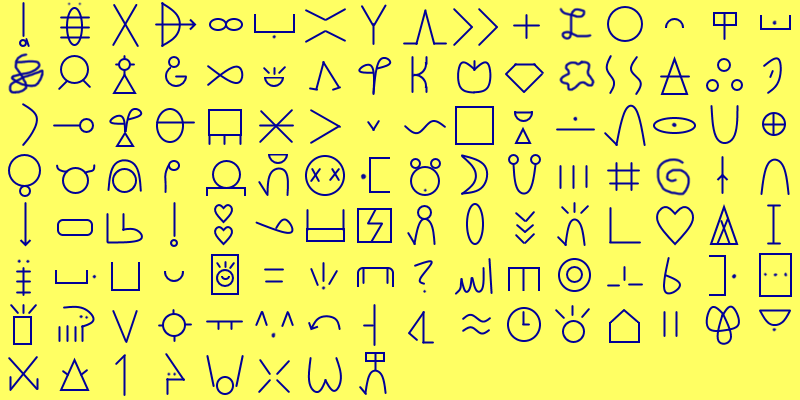
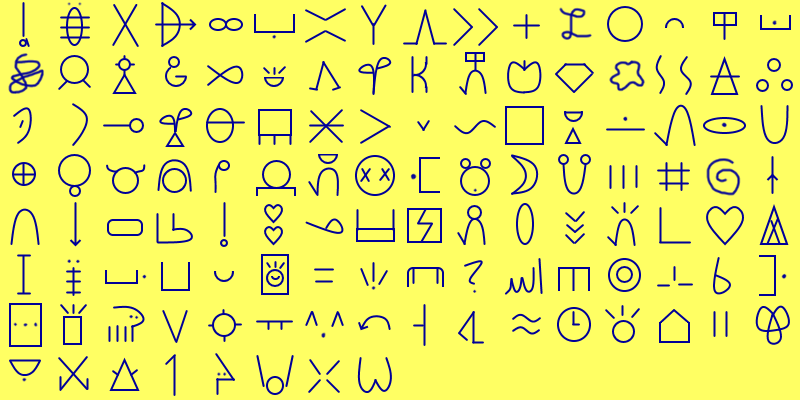
internal logic cleanup

Changed region(s): [[0.0, 0.12, 1.0, 0.87], [0.0, 0.87, 0.5, 0.99]]

diff --git a/Assets/InsaIloScript.cs b/Assets/InsaIloScript.cs
@@ -6,8 +6,9 @@ using System.Text.RegularExpressions;
 using UnityEngine;
 using KModkit;
 
-public class InsaIloScript : MonoBehaviour { //note to self if i get one more freaking complaint regarding ambiguity: a) make a better system as that switch is annoying and b) ask emik or someone fluent to remake the list as it's kinda mid and wrong and sdahjkldsjakl,.;
+public class InsaIloScript : MonoBehaviour {
 
+    public KMBombModule Module;
     public KMBombInfo Bomb;
     public KMAudio Audio;
 
@@ -17,14 +18,92 @@ public class InsaIloScript : MonoBehaviour { //note to self if i get one more fr
     public TextMesh[] Texts;
 
     private int chosenIx, anIx, answer;
-    private string[] words = { "who", "where", "when", "three", "four", "six", "seven", "ten", "worm", "forest", "root", "flower", "bone", "egg", "horn", "tail", "feather", "tooth", "tongue", "knee", "wing", "belly", "neck", "rain", "river", "sea", "ice", "smoke", "ash", "night", "day", "year", "old", "smooth", "dry", "near", "module", "bomb", "pink", "maroon", "orange", "green", "purple", "alcohol", "blind", "deaf", "love", "gray", "rich", "poor", "glitch", "saliva", "mother", "father", "soda", "second", "eternity", "baby", "basement", "twin", "dinosaur", "banana", "dumb", "button", "welcome", "sorry", "please", "friend", "enemy", "soldier", "vehicle", "city", "hunter", "speaker", "leader", "sentence", "calculator", "movie", "others", "nothing", "first", "fifth" };
-    private const float row = 0.125f;
-    private const float col = 0.0625f;
-    private float Lrow, Lcol, Rrow, Rcol;
-    private string chosenWord, forLogging;
+    private string[] tokipona = { "a", "akesi", "ala", "alasa", "ale", "anpa", "ante", "anu", "awen", "e", "en", "esun", "ijo", "ike", "ilo", "insa", "jaki", "jan", "jelo", "jo", "kala", "kalama", "kama", "kasi", "ken", "kepeken", "kili", "kiwen", "ko", "kon", "kule", "kulupu", "kute", "la", "lape", "laso", "lawa", "len", "lete", "li", "lili", "linja", "lipu", "loje", "lon", "luka", "lukin", "lupa", "ma", "mama", "mani", "meli", "mi", "mije", "moku", "moli", "monsi", "mu", "mun", "musi", "mute", "nanpa", "nasa", "nasin", "nena", "ni", "nimi", "noka", "o", "olin", "ona", "open", "pakala", "pali", "palisa", "pan", "pana", "pi", "pilin", "pimeja", "pini", "pipi", "poka", "poki", "pona", "pu", "sama", "seli", "selo", "seme", "sewi", "sijelo", "sike", "sin", "sina", "sinpin", "sitelen", "sona", "soweli", "suli", "suno", "supa", "suwi", "tan", "taso", "tawa", "telo", "tenpo", "toki", "tomo", "tu", "unpa", "uta", "utala", "walo", "wan", "waso", "wawa", "weka", "wile" };
+    private string[] trans = { 
+        "jan seme who",
+        "ma seme where",
+        "tenpo seme when",
+        "tu wan three",
+        "tu tu four",
+        "luka wan six",
+        "luka tu seven",
+        "luka luka ten",
+        "pipi linja worm",
+        "ma kasi forest",
+        "noka kasi root",
+        "kasi kule flower",
+        "kiwen sijelo bone",
+        "kiwen waso egg",
+        "kiwen lawa horn",
+        "linja monsi tail",
+        "lipu waso feather",
+        "kiwen uta tooth",
+        "nena uta tongue",
+        "nena noka knee",
+        "luka waso wing",
+        "sinpin sijelo belly",
+        "noka lawa neck",
+        "telo sewi rain",
+        "telo tawa river",
+        "telo suli sea",
+        "kiwen telo ice",
+        "kon seli smoke",
+        "ko seli ash",
+        "tenpo pimeja night",
+        "tenpo suno day",
+        "nena ala smooth",
+        "telo ala dry",
+        "lon poka near",
+        "insa ilo module",
+        "moli ilo bomb",
+        "loje walo pink",
+        "loje pimeja maroon",
+        "loje jelo orange",
+        "jelo laso green",
+        "loje laso purple",
+        "telo nasa alcohol",
+        "lukin ala blind",
+        "kute ala deaf",
+        "pilin jan love",
+        "walo pimeja gray",
+        "mani ale rich",
+        "mani ala poor",
+        "pipi ilo glitch",
+        "telo uta saliva",
+        "meli mama mother",
+        "mije mama father",
+        "telo pimeja soda",
+        "tenpo lili second",
+        "tenpo suli year",
+        "tenpo ale eternity",
+        "jan lili baby",
+        "tomo noka basement",
+        "jan tu twin",
+        "akesi suli dinosaur",
+        "kili jelo banana",
+        "lawa ike dumb",
+        "ilo nena button",
+        "kama pona welcome",
+        "mi pakala sorry",
+        "mi wile please",
+        "jan pona friend",
+        "jan ike enemy",
+        "jan utala soldier",
+        "tomo tawa vehicle",
+        "ma tomo city",
+        "jan alasa hunter",
+        "jan kalama speaker",
+        "jan lawa leader",
+        "nimi mute sentence",
+        "nanpa ilo calculator",
+        "sitelen tawa movie",
+        "sina ala others",
+        "ale ala nothing",
+        "wan nanpa first",
+        "luka nanpa fifth"
+    };
+    private string chosenWord;
     private List<string> onButtons = new List<string> {};
-    private bool chegg = false;
-    private int x = -1;
 
     //Logging
     static int moduleIdCounter = 1;
@@ -41,28 +120,28 @@ public class InsaIloScript : MonoBehaviour { //note to self if i get one more fr
 
     // Use this for initialization
     void Start () {
-        chosenIx = UnityEngine.Random.Range(0, words.Count());
-        chosenWord = words[chosenIx];
+        chosenIx = UnityEngine.Random.Range(0, trans.Count());
+        chosenWord = trans[chosenIx].Split(' ')[2];
         
-        SetSymbols(chosenIx);
+        Screens[0].GetComponent<MeshRenderer>().material.mainTextureOffset = new Vector2(0.0625f * (Array.IndexOf(tokipona, trans[chosenIx].Split(' ')[0]) % 16), 0.125f * (7 - (Array.IndexOf(tokipona, trans[chosenIx].Split(' ')[0]) / 16)));
+        Screens[1].GetComponent<MeshRenderer>().material.mainTextureOffset = new Vector2(0.0625f * (Array.IndexOf(tokipona, trans[chosenIx].Split(' ')[1]) % 16), 0.125f * (7 - (Array.IndexOf(tokipona, trans[chosenIx].Split(' ')[1]) / 16)));
         
-        Screens[0].GetComponent<MeshRenderer>().material.mainTextureOffset = new Vector2(Lcol, Lrow);
-        Screens[1].GetComponent<MeshRenderer>().material.mainTextureOffset = new Vector2(Rcol, Rrow);
         onButtons.Add(chosenWord);
+
+        bool flag = false;
         while (onButtons.Count() <= 5) {
-            chegg = false;
-            anIx = UnityEngine.Random.Range(0, words.Count());
+            flag = false;
+            anIx = UnityEngine.Random.Range(0, trans.Count());
+            string word = trans[anIx].Split(' ')[2];
             for (int w = 0; w < onButtons.Count(); w++) {
-                if (words[anIx] == onButtons[w]) {
-                    chegg = true;
+                if (word == onButtons[w]) {
+                    flag = true;
                 }
             }
-            if (!chegg) {
-                onButtons.Add(words[anIx]);
-            }
+            if (!flag) { onButtons.Add(word); }
         }
         onButtons.Shuffle();
-        for (int m = 0; m < 6; m++) {
+        for (int m = 0; m < 6; m++) { //note: this needs to be changed on a case-by-case basis currently, should change later
             Texts[m].text = onButtons[m];
             switch (onButtons[m]) {
                 case "dinosaur": case "speaker":
@@ -78,113 +157,27 @@ public class InsaIloScript : MonoBehaviour { //note to self if i get one more fr
             }
         }
         Debug.LogFormat("[Insa Ilo #{0}] Words: {1}, {2}, {3}, {4}, {5}, {6}", moduleId, onButtons[0], onButtons[1], onButtons[2], onButtons[3], onButtons[4], onButtons[5]);
-        Debug.LogFormat("[Insa Ilo #{0}] On displays: {1}", moduleId, forLogging);
+        Debug.LogFormat("[Insa Ilo #{0}] On displays: {1} {2}", moduleId, trans[chosenIx].Split(' ')[0], trans[chosenIx].Split(' ')[1]);
         Debug.LogFormat("[Insa Ilo #{0}] Correct word: {1}", moduleId, chosenWord);
     }
 
     void buttonPress(KMSelectable button) {
         button.AddInteractionPunch();
-        GetComponent<KMAudio>().PlayGameSoundAtTransform(KMSoundOverride.SoundEffect.ButtonPress, transform);
+        Audio.PlayGameSoundAtTransform(KMSoundOverride.SoundEffect.ButtonPress, transform);
         for (int b = 0; b < 6; b++) {
             if (!moduleSolved && button == Buttons[b]) {
                 if (onButtons[b] == chosenWord) {
                     Debug.LogFormat("[Insa Ilo #{0}] You pressed {1}, that is correct. Module solved.", moduleId, chosenWord);
-                    GetComponent<KMBombModule>().HandlePass();
-                    Screens[0].GetComponent<MeshRenderer>().material.mainTextureOffset = new Vector2(0.6875f, 0.125f);
-                    Screens[1].GetComponent<MeshRenderer>().material.mainTextureOffset = new Vector2(0.1875f, 0.25f);
+                    Module.HandlePass();
+                    Screens[0].GetComponent<MeshRenderer>().material.mainTextureOffset = new Vector2(0.75f, 0.125f);
+                    Screens[1].GetComponent<MeshRenderer>().material.mainTextureOffset = new Vector2(0.25f, 0.25f);
                     moduleSolved = true;
-                    GetComponent<KMAudio>().PlayGameSoundAtTransform(KMSoundOverride.SoundEffect.CorrectChime, transform);
+                    Audio.PlayGameSoundAtTransform(KMSoundOverride.SoundEffect.CorrectChime, transform);
                 } else {
                     Debug.LogFormat("[Insa Ilo #{0}] You pressed {1}, that is incorrect, you should've pressed {2}. Strike!", moduleId, onButtons[b], chosenWord);
-                    GetComponent<KMBombModule>().HandleStrike();
+                    Module.HandleStrike();
                 }
             }
-        }
-    }
-
-    void SetSymbols (int n) {
-        switch (n) {
-            case 0: Lrow=row*6; Lcol=col*1; Rrow=row*2; Rcol=col*8; forLogging = "jan seme"; break; //who
-            case 1: Lrow=row*5; Lcol=col*15; Rrow=row*2; Rcol=col*8; forLogging = "ma seme"; break; //where
-            case 2: Lrow=row*1; Lcol=col*10; Rrow=row*2; Rcol=col*8; forLogging = "tenpo seme"; break; //when
-            case 3: Lrow=row*1; Lcol=col*13; Rrow=row*0; Rcol=col*2; forLogging = "tu wan"; break; //three
-            case 4: Lrow=row*1; Lcol=col*13; Rrow=row*1; Rcol=col*13; forLogging = "tu tu"; break; //four
-            case 5: Lrow=row*5; Lcol=col*12; Rrow=row*0; Rcol=col*2; forLogging = "luka wan"; break; //six
-            case 6: Lrow=row*5; Lcol=col*12; Rrow=row*1; Rcol=col*13; forLogging = "luka tu"; break; //seven
-            case 7: Lrow=row*5; Lcol=col*12; Rrow=row*5; Rcol=col*12; forLogging = "luka luka"; break; //ten
-            case 8: Lrow=row*2; Lcol=col*0; Rrow=row*5; Rcol=col*8; forLogging = "pipi linja"; break; //worm
-            case 9: Lrow=row*5; Lcol=col*15; Rrow=row*6; Rcol=col*7; forLogging = "ma kasi"; break; //forest
-            case 10: Lrow=row*3; Lcol=col*2; Rrow=row*6; Rcol=col*7; forLogging = "noka kasi"; break; //root
-            case 11: Lrow=row*6; Lcol=col*7; Rrow=row*6; Rcol=col*13; forLogging = "kasi kule"; break; //flower
-            case 12: Lrow=row*6; Lcol=col*10; Rrow=row*2; Rcol=col*10; forLogging = "kiwen sijelo"; break; //bone
-            case 13: Lrow=row*6; Lcol=col*10; Rrow=row*0; Rcol=col*3; forLogging = "kiwen waso"; break; //egg
-            case 14: Lrow=row*6; Lcol=col*10; Rrow=row*5; Rcol=col*3; forLogging = "kiwen lawa"; break; //horn
-            case 15: Lrow=row*5; Lcol=col*8; Rrow=row*4; Rcol=col*7; forLogging = "linja monsi"; break; //tail
-            case 16: Lrow=row*5; Lcol=col*9; Rrow=row*0; Rcol=col*3; forLogging = "lipu waso"; break; //feather
-            case 17: Lrow=row*6; Lcol=col*10; Rrow=row*1; Rcol=col*15; forLogging = "kiwen uta"; break; //tooth
-            case 18: Lrow=row*4; Lcol=col*15; Rrow=row*1; Rcol=col*15; forLogging = "nena uta"; break; //tongue
-            case 19: Lrow=row*4; Lcol=col*15; Rrow=row*3; Rcol=col*2; forLogging = "nena noka"; break; //knee
-            case 20: Lrow=row*5; Lcol=col*12; Rrow=row*0; Rcol=col*3; forLogging = "luka waso"; break; //wing
-            case 21: Lrow=row*2; Lcol=col*14; Rrow=row*2; Rcol=col*10; forLogging = "sinpin sijelo"; break; //belly
-            case 22: Lrow=row*3; Lcol=col*2; Rrow=row*5; Rcol=col*3; forLogging = "noka lawa"; break; //neck
-            case 23: Lrow=row*1; Lcol=col*9; Rrow=row*2; Rcol=col*9; forLogging = "telo sewi"; break; //rain
-            case 24: Lrow=row*1; Lcol=col*9; Rrow=row*1; Rcol=col*8; forLogging = "telo tawa"; break; //river
-            case 25: Lrow=row*1; Lcol=col*9; Rrow=row*1; Rcol=col*2; forLogging = "telo suli"; break; //sea
-            case 26: Lrow=row*6; Lcol=col*10; Rrow=row*1; Rcol=col*9; forLogging = "kiwen telo"; break; //ice
-            case 27: Lrow=row*6; Lcol=col*12; Rrow=row*2; Rcol=col*6; forLogging = "kon seli"; break; //smoke
-            case 28: Lrow=row*6; Lcol=col*11; Rrow=row*2; Rcol=col*6; forLogging = "ko seli"; break; //ash
-            case 29: Lrow=row*1; Lcol=col*10; Rrow=row*3; Rcol=col*14; forLogging = "tenpo pimeja"; break; //night
-            case 30: Lrow=row*1; Lcol=col*10; Rrow=row*1; Rcol=col*3; forLogging = "tenpo suno"; break; //day
-            case 32: Lrow=row*4; Lcol=col*15; Rrow=row*7; Rcol=col*2; forLogging = "nena ala"; break; //smooth
-            case 33: Lrow=row*1; Lcol=col*9; Rrow=row*7; Rcol=col*2; forLogging = "telo ala"; break; //dry
-            case 34: Lrow=row*5; Lcol=col*11; Rrow=row*2; Rcol=col*1; forLogging = "lon poka"; break; //near
-            case 35: Lrow=row*7; Lcol=col*15; Rrow=row*7; Rcol=col*14; forLogging = "insa ilo"; break; //module
-            case 36: Lrow=row*4; Lcol=col*6; Rrow=row*7; Rcol=col*14; forLogging = "moli ilo"; break; //bomb
-            case 37: Lrow=row*5; Lcol=col*10; Rrow=row*0; Rcol=col*1; forLogging = "loje walo"; break; //pink
-            case 38: Lrow=row*5; Lcol=col*10; Rrow=row*3; Rcol=col*14; forLogging = "loje pimeja"; break; //maroon
-            case 39: Lrow=row*5; Lcol=col*10; Rrow=row*6; Rcol=col*2; forLogging = "loje jelo"; break; //orange
-            case 40: Lrow=row*6; Lcol=col*2; Rrow=row*5; Rcol=col*2; forLogging = "jelo laso"; break; //green
-            case 41: Lrow=row*5; Lcol=col*10; Rrow=row*5; Rcol=col*2; forLogging = "loje laso"; break; //purple
-            case 42: Lrow=row*1; Lcol=col*9; Rrow=row*4; Rcol=col*13; forLogging = "telo nasa"; break; //alcohol
-            case 43: Lrow=row*5; Lcol=col*13; Rrow=row*7; Rcol=col*2; forLogging = "lukin ala"; break; //blind
-            case 44: Lrow=row*6; Lcol=col*15; Rrow=row*7; Rcol=col*2; forLogging = "kute ala"; break; //deaf
-            case 45: Lrow=row*3; Lcol=col*13; Rrow=row*6; Rcol=col*1; forLogging = "pilin jan"; break; //love
-            case 46: Lrow=row*0; Lcol=col*1; Rrow=row*3; Rcol=col*14; forLogging = "walo pimeja"; break; //gray
-            case 47: Lrow=row*4; Lcol=col*1; Rrow=row*7; Rcol=col*4; forLogging = "mani ale"; break; //rich
-            case 48: Lrow=row*4; Lcol=col*1; Rrow=row*7; Rcol=col*2; forLogging = "mani ala"; break; //poor
-            case 49: Lrow=row*2; Lcol=col*0; Rrow=row*7; Rcol=col*14; forLogging = "pipi ilo"; break; //glitch
-            case 50: Lrow=row*1; Lcol=col*9; Rrow=row*1; Rcol=col*15; forLogging = "telo uta"; break; //saliva
-            case 51: Lrow=row*4; Lcol=col*2; Rrow=row*4; Rcol=col*0; forLogging = "meli mama"; break; //mother
-            case 52: Lrow=row*4; Lcol=col*4; Rrow=row*4; Rcol=col*0; forLogging = "mije mama"; break; //father
-            case 53: Lrow=row*1; Lcol=col*9; Rrow=row*3; Rcol=col*14; forLogging = "telo pimeja"; break; //soda
-            case 54: Lrow=row*1; Lcol=col*10; Rrow=row*5; Rcol=col*7; forLogging = "tenpo lili"; break; //second
-            case 55: Lrow=row*1; Lcol=col*10; Rrow=row*1; Rcol=col*2; forLogging = "tenpo suli"; break; //year
-            case 56: Lrow=row*1; Lcol=col*10; Rrow=row*7; Rcol=col*4; forLogging = "tenpo ale"; break; //eternity
-            case 57: Lrow=row*6; Lcol=col*1; Rrow=row*5; Rcol=col*7; forLogging = "jan lili"; break; //baby
-            case 58: Lrow=row*1; Lcol=col*12; Rrow=row*3; Rcol=col*2; forLogging = "tomo noka"; break; //basement
-            case 59: Lrow=row*6; Lcol=col*1; Rrow=row*1; Rcol=col*13; forLogging = "jan tu"; break; //twin
-            case 60: Lrow=row*7; Lcol=col*1; Rrow=row*1; Rcol=col*2; forLogging = "akesi suli"; break; //dinosaur
-            case 61: Lrow=row*6; Lcol=col*9; Rrow=row*6; Rcol=col*2; forLogging = "kili jelo"; break; //banana
-            case 62: Lrow=row*5; Lcol=col*3; Rrow=row*7; Rcol=col*13; forLogging = "lawa ike"; break; //dumb
-            case 63: Lrow=row*7; Lcol=col*14; Rrow=row*4; Rcol=col*15; forLogging = "ilo nena"; break; //button
-            case 64: Lrow=row*6; Lcol=col*6; Rrow=row*2; Rcol=col*3; forLogging = "kama pona"; break; //welcome
-            case 65: Lrow=row*4; Lcol=col*3; Rrow=row*3; Rcol=col*7; forLogging = "mi pakala"; break; //sorry
-            case 66: Lrow=row*4; Lcol=col*3; Rrow=row*0; Rcol=col*6; forLogging = "mi wile"; break; //please
-            case 67: Lrow=row*6; Lcol=col*1; Rrow=row*2; Rcol=col*3; forLogging = "jan pona"; break; //friend
-            case 68: Lrow=row*6; Lcol=col*1; Rrow=row*7; Rcol=col*13; forLogging = "jan ike"; break; //enemy
-            case 69: Lrow=row*6; Lcol=col*1; Rrow=row*0; Rcol=col*0; forLogging = "jan utala"; break; //soldier
-            case 70: Lrow=row*1; Lcol=col*12; Rrow=row*1; Rcol=col*8; forLogging = "tomo tawa"; break; //vehicle
-            case 71: Lrow=row*5; Lcol=col*15; Rrow=row*1; Rcol=col*12; forLogging = "ma tomo"; break; //city
-            case 72: Lrow=row*6; Lcol=col*1; Rrow=row*7; Rcol=col*3; forLogging = "jan alasa"; break; //hunter
-            case 73: Lrow=row*6; Lcol=col*1; Rrow=row*6; Rcol=col*5; forLogging = "jan kalama"; break; //speaker
-            case 74: Lrow=row*6; Lcol=col*1; Rrow=row*5; Rcol=col*3; forLogging = "jan lawa"; break; //leader
-            case 75: Lrow=row*3; Lcol=col*1; Rrow=row*4; Rcol=col*11; forLogging = "nimi mute"; break; //sentence
-            case 76: Lrow=row*4; Lcol=col*12; Rrow=row*7; Rcol=col*14; forLogging = "nanpa ilo"; break; //calculator
-            case 77: Lrow=row*2; Lcol=col*15; Rrow=row*1; Rcol=col*8; forLogging = "sitelen tawa"; break; //movie
-            case 78: Lrow=row*2; Lcol=col*13; Rrow=row*7; Rcol=col*2; forLogging = "sina ala"; break; //others
-            case 79: Lrow=row*7; Lcol=col*4; Rrow=row*7; Rcol=col*2; forLogging = "ale ala"; break; //nothing
-            case 80: Lrow=row*0; Lcol=col*2; Rrow=row*4; Rcol=col*12; forLogging = "wan nanpa"; break; //first
-            case 81: Lrow=row*5; Lcol=col*12; Rrow=row*4; Rcol=col*12; forLogging = "luka nanpa"; break; //fifth
         }
     }
 
